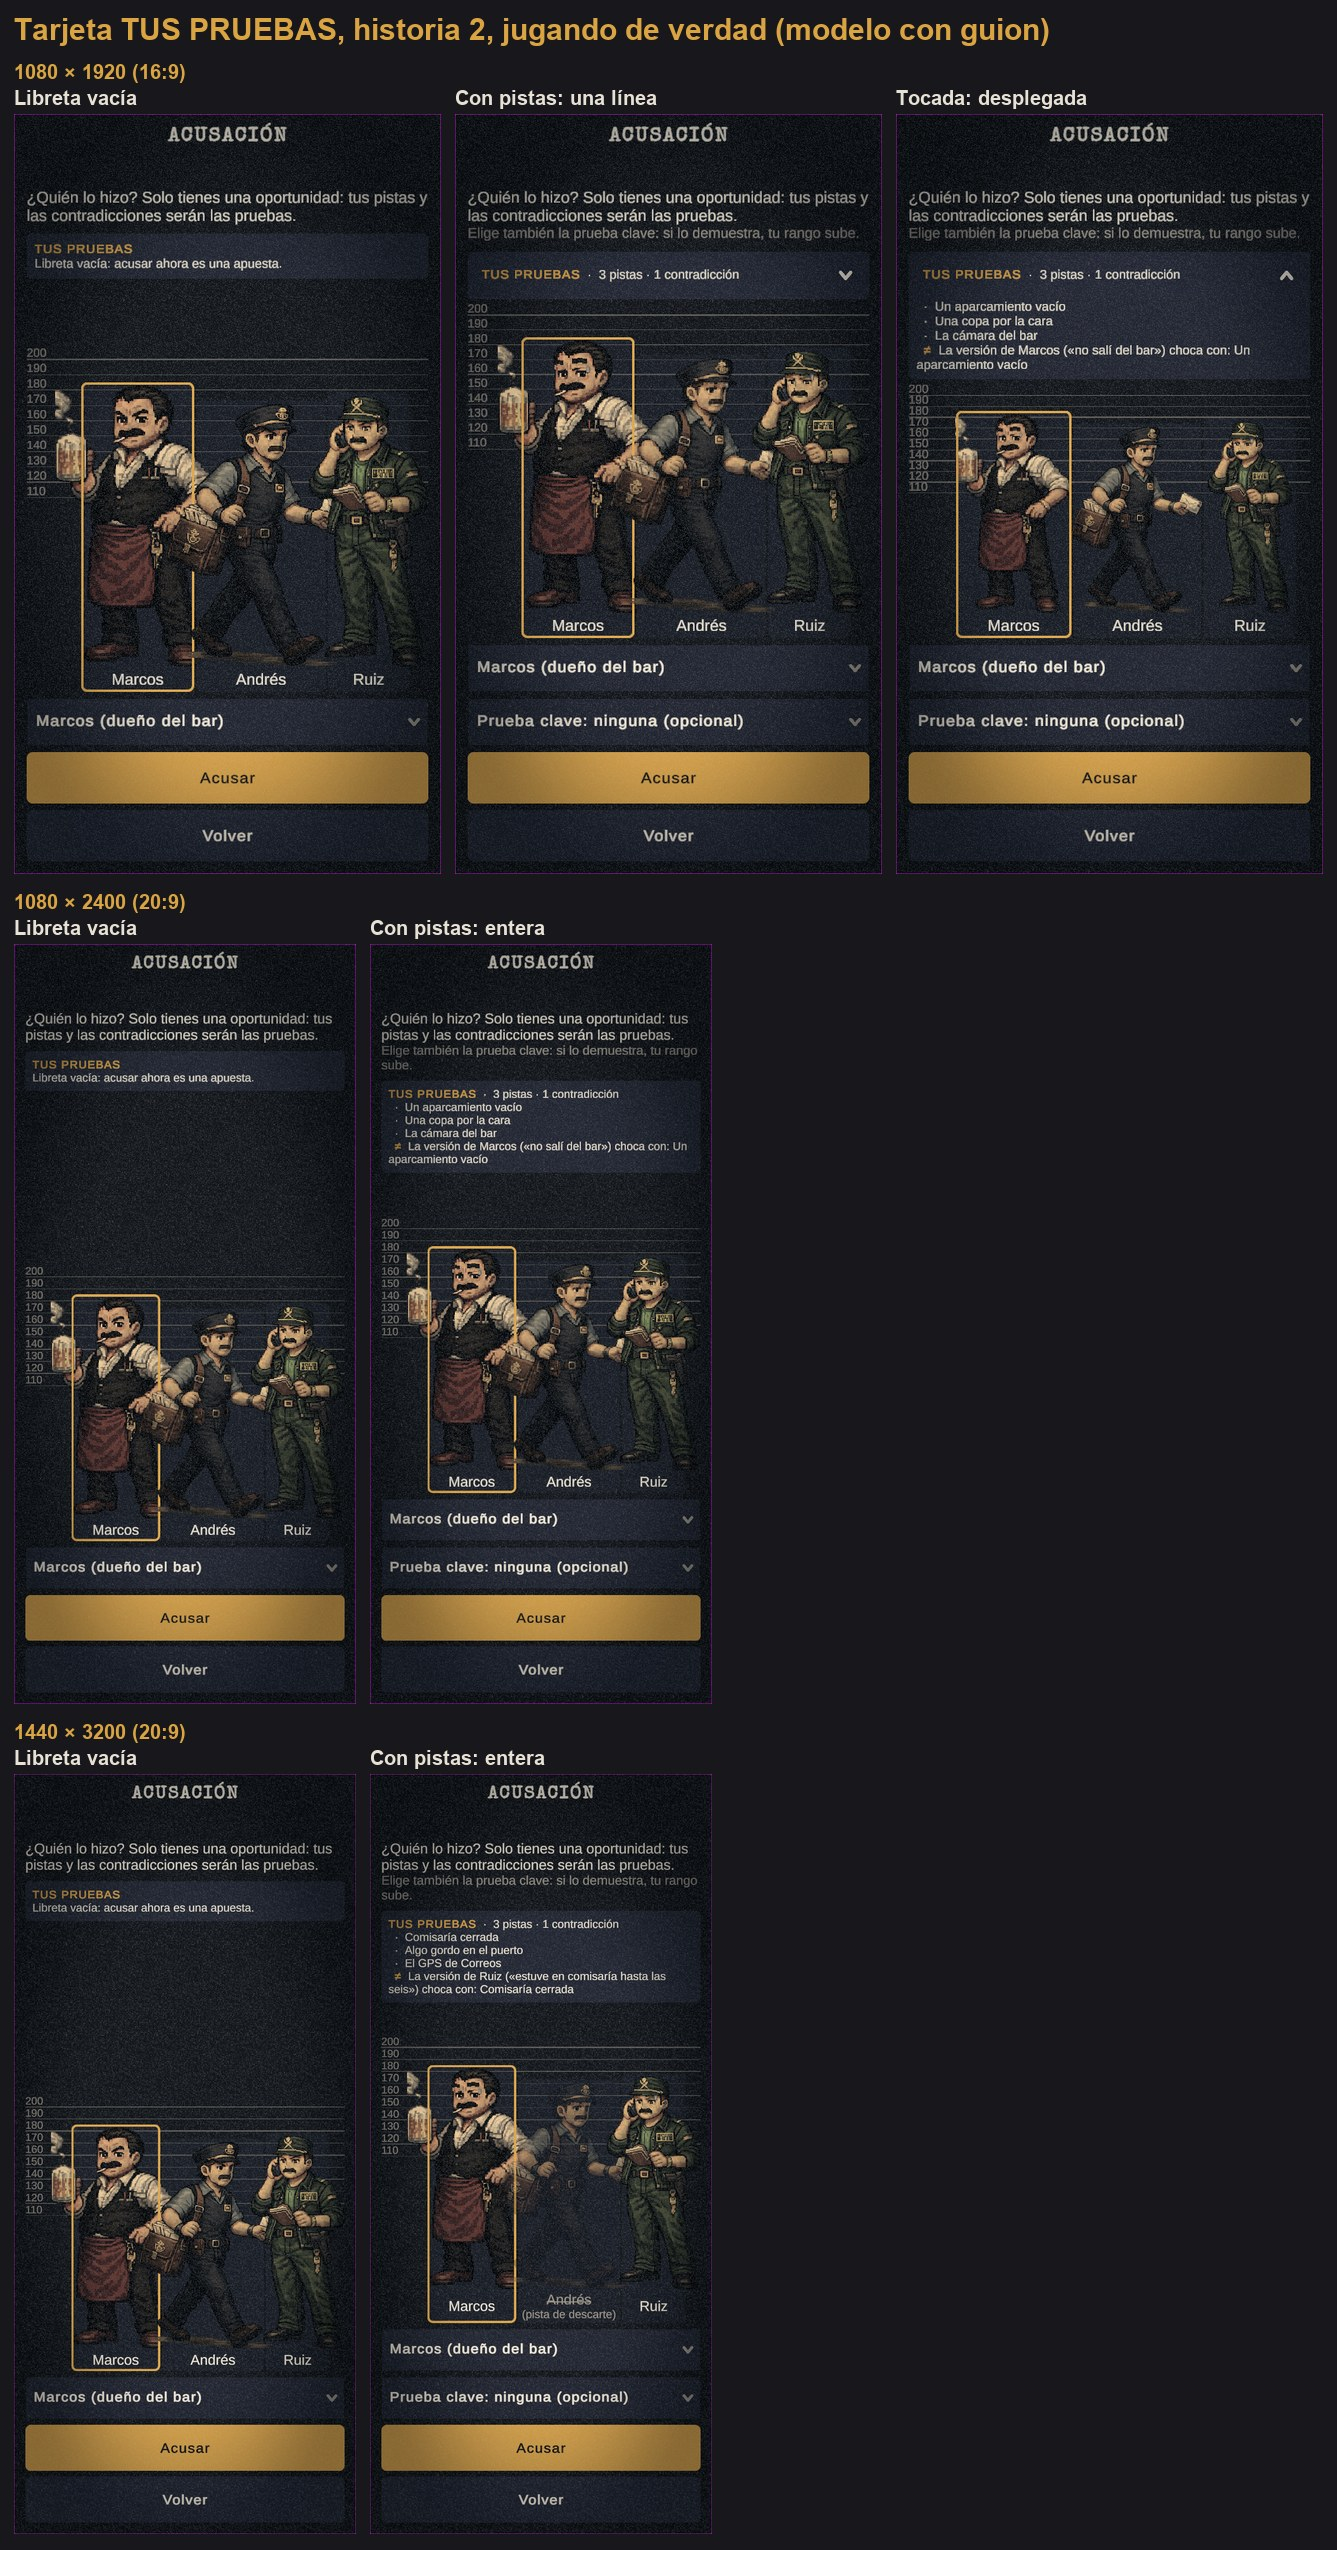
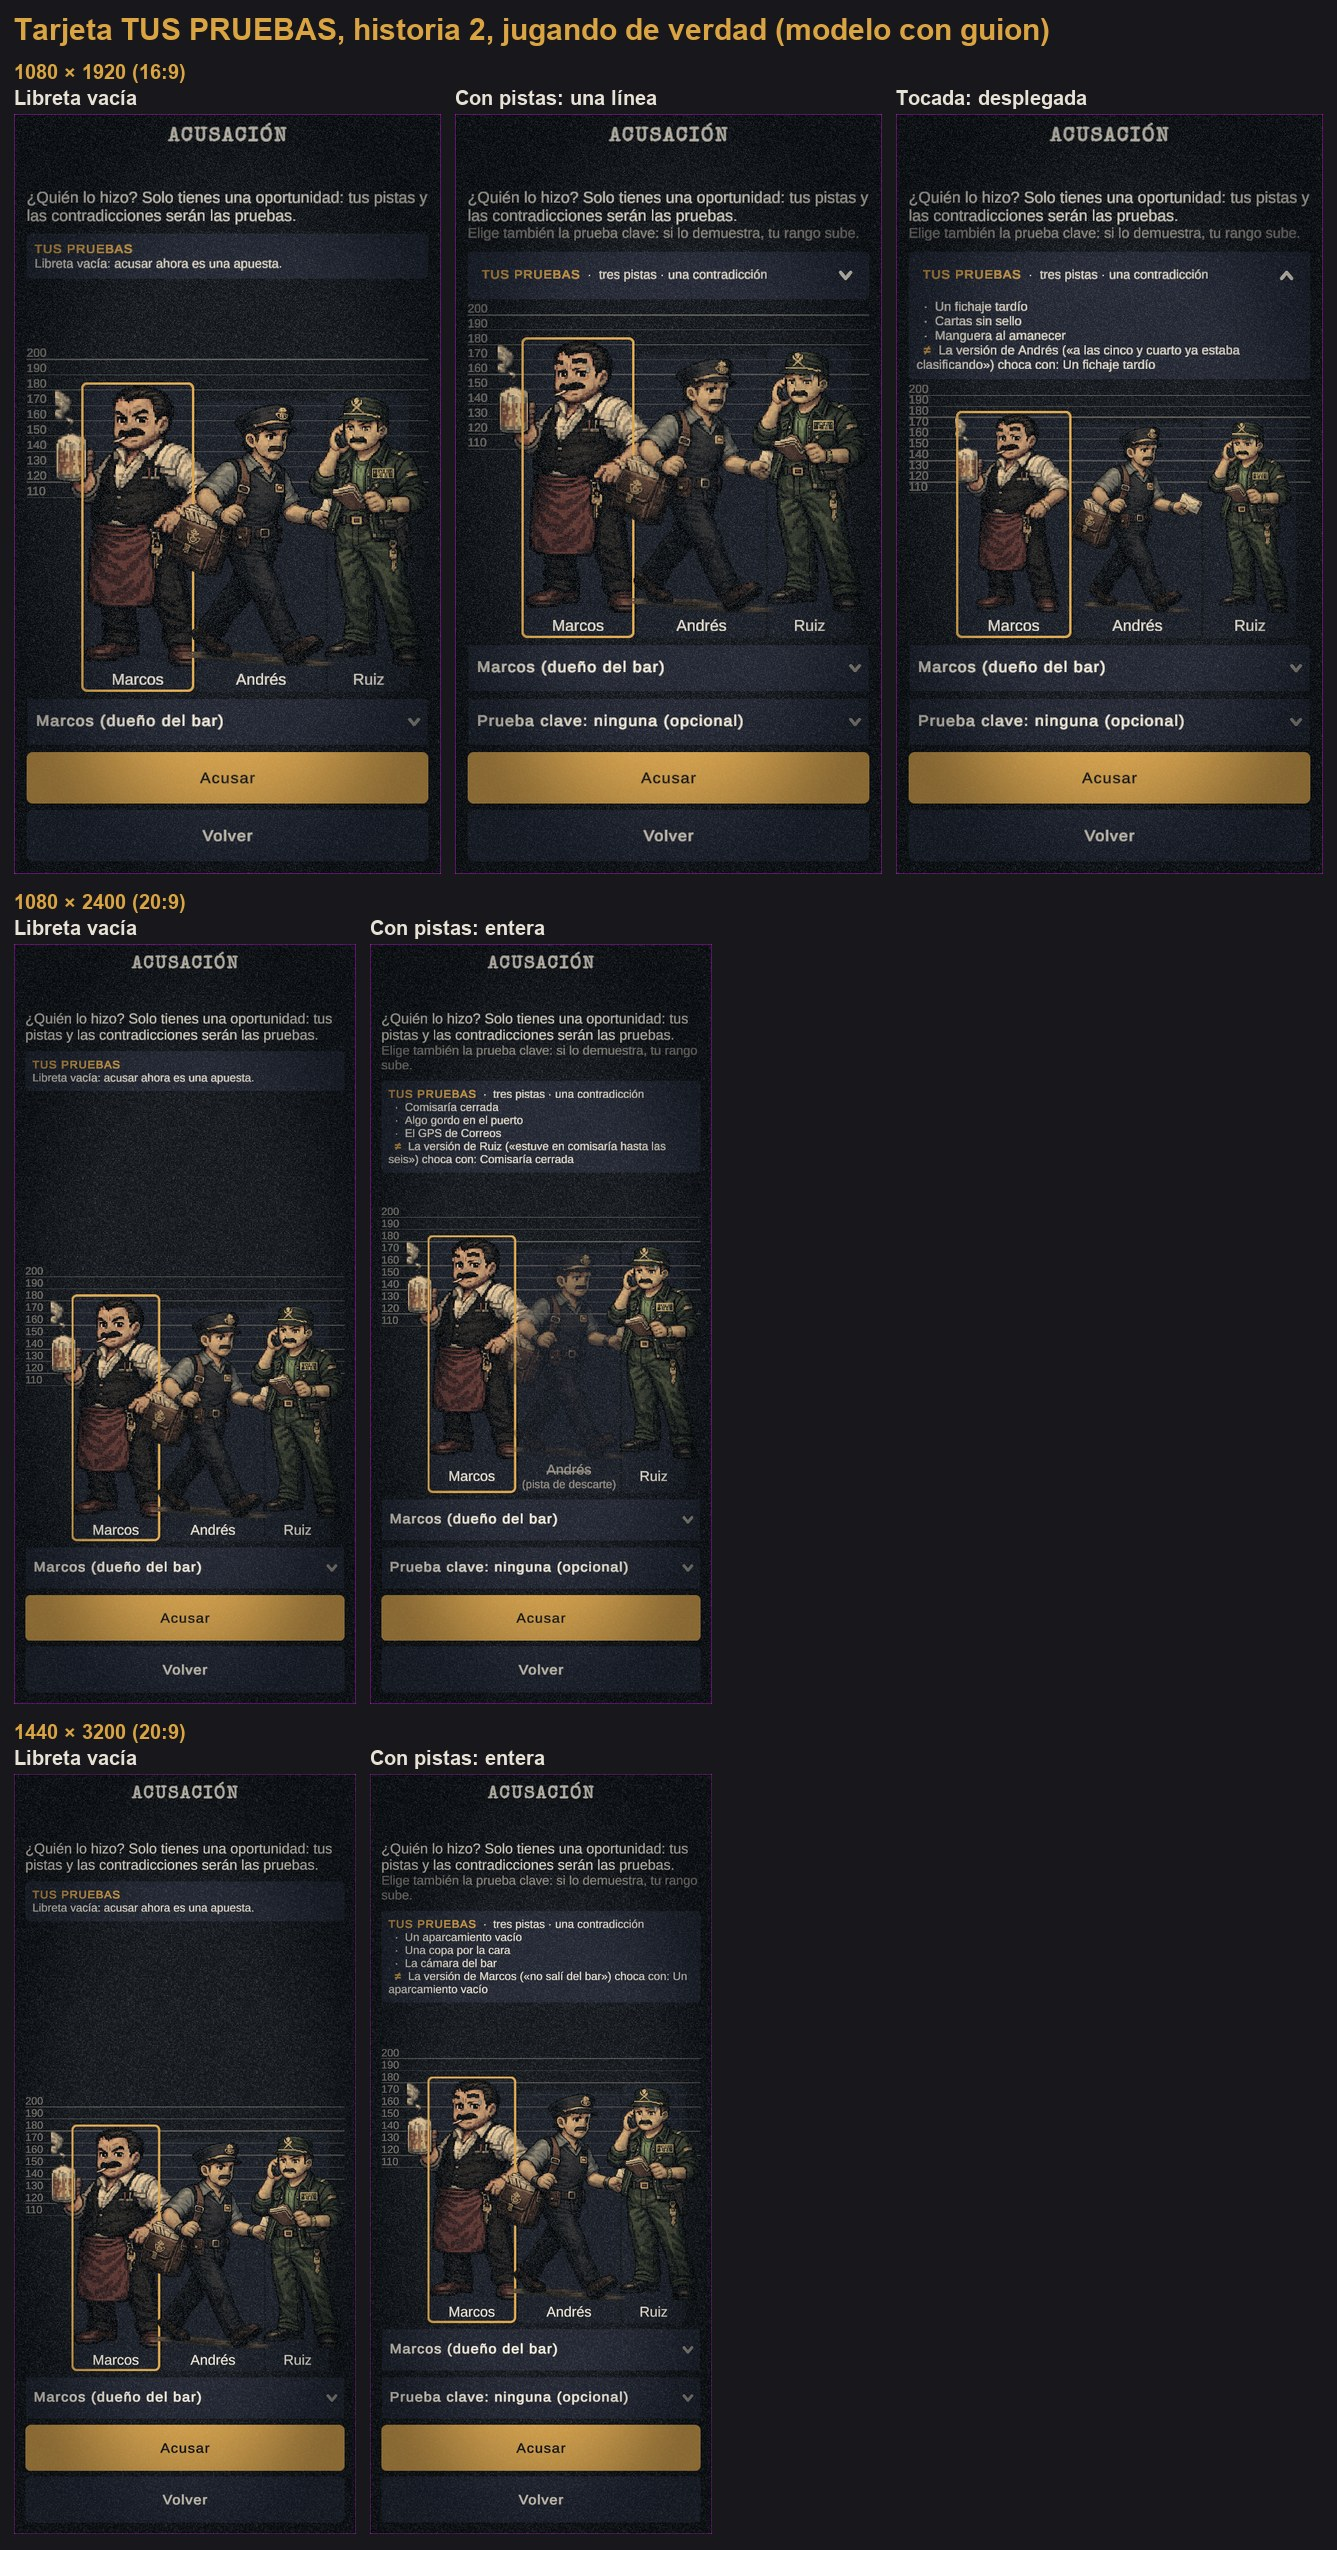
Evidence card counts in words up to ten, like the rest of the game (shared with the accusation summary)
Claude-Session: https://claude.ai/code/session_01KEoVtmbGPQRPnhweMQeCc5

diff --git a/Assets/Tests/EditMode/ArreglosInterfazTests.cs b/Assets/Tests/EditMode/ArreglosInterfazTests.cs
@@ -322,9 +322,12 @@ public class ArreglosInterfazTests
         Assert.AreEqual(EvidenceCardMode.Collapsed, EvidenceCard.Choose(spare: 200f, fullHeight: 300f, empty: false));
     }
 
-    [TestCase(4, 1, "4 pistas · 1 contradicción")]
-    [TestCase(1, 0, "1 pista · 0 contradicciones")]
-    [TestCase(0, 2, "0 pistas · 2 contradicciones")]
+    // Decisión de Cristian: en letra hasta diez, como el resto del juego (el resumen de la acusación); cifras desde once
+    [TestCase(4, 1, "cuatro pistas · una contradicción")]
+    [TestCase(1, 0, "una pista · ninguna contradicción")]
+    [TestCase(0, 2, "cero pistas · dos contradicciones")]
+    [TestCase(10, 10, "diez pistas · diez contradicciones")]
+    [TestCase(11, 12, "11 pistas · 12 contradicciones")]
     public void LaLineaResumenDeLaTarjeta(int clues, int contradictions, string expected)
     {
         Assert.AreEqual(expected, GameTexts.EvidenceLine(clues, contradictions));
@@ -362,7 +365,7 @@ public class ArreglosInterfazTests
     {
         EvidenceCard card = ShowCard(new Vector2(1080f, 1920f), 4, 1);
         Assert.AreEqual(EvidenceCardMode.Collapsed, card.Mode, "en 16:9 la lista entera no cabe sin encoger la rueda");
-        StringAssert.Contains("4 pistas · 1 contradicción", card.VisibleText);
+        StringAssert.Contains("cuatro pistas · una contradicción", card.VisibleText);
         Assert.LessOrEqual(((RectTransform)card.transform).rect.height, Theme.MinTouchSize + Tolerance, "una sola línea");
         Assert.IsNotNull(card.GetComponentInChildren<Button>(), "se toca para desplegar");
         CheckAccusation(true);
@@ -412,6 +415,11 @@ public class ArreglosInterfazTests
         EvidenceCard card = ShowCard(LayoutPreview.CanvasSize(w, h), 6, 12);
         Assert.AreEqual(EvidenceCardMode.Collapsed, card.Mode);
         CheckAccusation(true);
+        // La línea plegada más larga ("seis pistas · 12 contradicciones") cabe entera, sin "…" ni por debajo de lo legible
+        TMP_Text line = card.GetComponentInChildren<Button>().GetComponentInChildren<TMP_Text>();
+        line.ForceMeshUpdate(true, true);
+        Assert.IsFalse(line.isTextTruncated, line.GetParsedText());
+        Assert.GreaterOrEqual(line.fontSize, Theme.MinReadableSize - 0.01f);
         card.Toggle();
         LayoutPreview.Rebuild((RectTransform)session.canvas.transform);
         CheckAccusation(true);

diff --git a/Assets/Scripts/UI/GameTexts.cs b/Assets/Scripts/UI/GameTexts.cs
@@ -253,20 +253,25 @@ public static class GameTexts
     public const string EvidenceCardEmpty = "Libreta vacía: acusar ahora es una apuesta.";
     public const string KeyClueHint = "Elige también la prueba clave: si lo demuestra, tu rango sube.";
 
-    /// <summary>Plegada: "4 pistas · 1 contradicción" (cifras: se leen de un vistazo).</summary>
+    /// <summary>"cuatro pistas · una contradicción": en letra hasta diez, como el resumen de la acusación.</summary>
     public static string EvidenceLine(int clues, int contradictions)
     {
-        return $"{clues} {(clues == 1 ? "pista" : "pistas")} · {contradictions} {(contradictions == 1 ? "contradicción" : "contradicciones")}";
+        return $"{ClueCount(clues)} · {ContradictionCount(contradictions)}";
     }
+
+    private static string ClueCount(int clues) => clues == 1 ? "una pista" : $"{NumberWord(clues)} pistas";
+
+    private static string ContradictionCount(int contradictions) =>
+        contradictions == 0 ? "ninguna contradicción"
+        : contradictions == 1 ? "una contradicción" : $"{NumberWord(contradictions)} contradicciones";
 
 
     public static string AccusationSummary(int clues, int contradictions)
     {
         if (clues <= 0 && contradictions <= 0)
             return "Tu libreta está vacía: acusar ahora es una apuesta.";
-        string c = clues == 1 ? "una pista" : $"{NumberWord(clues)} pistas";
-        string x = contradictions == 0 ? "ninguna contradicción"
-                 : contradictions == 1 ? "una contradicción" : $"{NumberWord(contradictions)} contradicciones";
+        string c = ClueCount(clues);
+        string x = ContradictionCount(contradictions);
         // El selector de la prueba clave solo aparece con pistas: se explica justo entonces
         return $"En tu libreta: {c} y {x}." + (clues > 0 ? " " + KeyClueHint : "");
     }

diff --git a/docs/PROPUESTA-RESUMEN-ACUSACION.md b/docs/PROPUESTA-RESUMEN-ACUSACION.md
@@ -11,7 +11,7 @@ Adoptada por Cristian (02-10-2026). Rama `feature/propuesta-resumen-acusacion`, 
 | a | Con la tarjeta, la pregunta ya no lleva la frase gris "Tu libreta está vacía…" / "En tu libreta…". Se queda solo la explicación de la prueba clave, que no está en la tarjeta: sin ella, el desplegable "Prueba clave" no se entiende. La caja de la pregunta mide ahora lo que su texto (antes, 240 fijos con la mitad vacía). | `ConLaTarjetaNoSeRepiteLaFraseGris` |
 | b | Libreta vacía: dos líneas, "TUS PRUEBAS" y "Libreta vacía: acusar ahora es una apuesta.". El resto, para la rueda. | `ConLaLibretaVaciaLaTarjetaSonDosLineas` (16:9 y 20:9) |
 | — | Entera si cabe en la pared que la rueda no usa (en 20:9 la rueda la limita el ancho). La rueda no encoge. | `En20a9ConPistasLaTarjetaEntera`, `LaTarjetaEnteraNoEncogeLaRueda` |
-| c | Si no cabe (16:9), una línea, "TUS PRUEBAS · 3 pistas · 1 contradicción", con flecha. Al tocarla se despliega y empuja la rueda hacia abajo mientras está abierta. Nunca tapa la rueda, el texto de arriba ni los botones; otro toque la pliega. | `En16a9ConPistasUnaLineaQueSeDespliega`, `ConMuchasPruebasSePliegaYNoTapaNada` (6 pistas y 12 contradicciones) y el test de controles (`CheckControls`) en cada estado |
+| c | Si no cabe (16:9), una línea, "TUS PRUEBAS · tres pistas · una contradicción", con flecha. Al tocarla se despliega y empuja la rueda hacia abajo mientras está abierta. Nunca tapa la rueda, el texto de arriba ni los botones; otro toque la pliega. | `En16a9ConPistasUnaLineaQueSeDespliega`, `ConMuchasPruebasSePliegaYNoTapaNada` (6 pistas y 12 contradicciones) y el test de controles (`CheckControls`) en cada estado |
 | d | Las contradicciones con el mismo texto que la libreta (`AIConversationManager.DescribeContradiction`, el que usa la libreta): "La versión de X («cita») choca con: pista". Ni más ni menos. | `LaTarjetaUsaElTextoDeLasContradiccionesTalCual` y, jugando, `TarjetaPruebasTests.LaTarjetaDiceLasContradiccionesComoLaLibreta`: cada línea de la tarjeta está en la libreta y al revés |
 | e | Capturas jugando de verdad (`ScriptedPlay`): se elige al sospechoso, se pregunta y se pulsa Enviar. Las pistas salen por el detector y la contradicción, enseñando la prueba al culpable con "Mostrar prueba". Lo único con guion es el modelo, que contesta con la frase real de cada pista (sus `sampleHits`). Libreta, desplegables y textos son los del juego. | `AnimationCapture.TarjetaPruebas` |
 
@@ -23,8 +23,8 @@ Adoptada por Cristian (02-10-2026). Rama `feature/propuesta-resumen-acusacion`, 
    cambiar el texto de la libreta (`DescribeContradiction`), y la tarjeta lo seguiría.
 2. Desplegada en 16:9, la rueda encoge mientras está abierta (no se tapa). La alternativa sería una capa por encima de
    la rueda, que la taparía.
-3. En la tarjeta las cifras van con número ("3 pistas"), como escribiste. En el resto del juego, las cifras pequeñas van
-   en letra ("tres pistas").
+3. Números en letra hasta diez y en cifras desde once, como el resto del juego (decisión de Cristian, 02-10-2026):
+   "TUS PRUEBAS · tres pistas · una contradicción". Comparte el texto con el resumen de la acusación.
 
 ## Lo que salió mal por el camino
 
